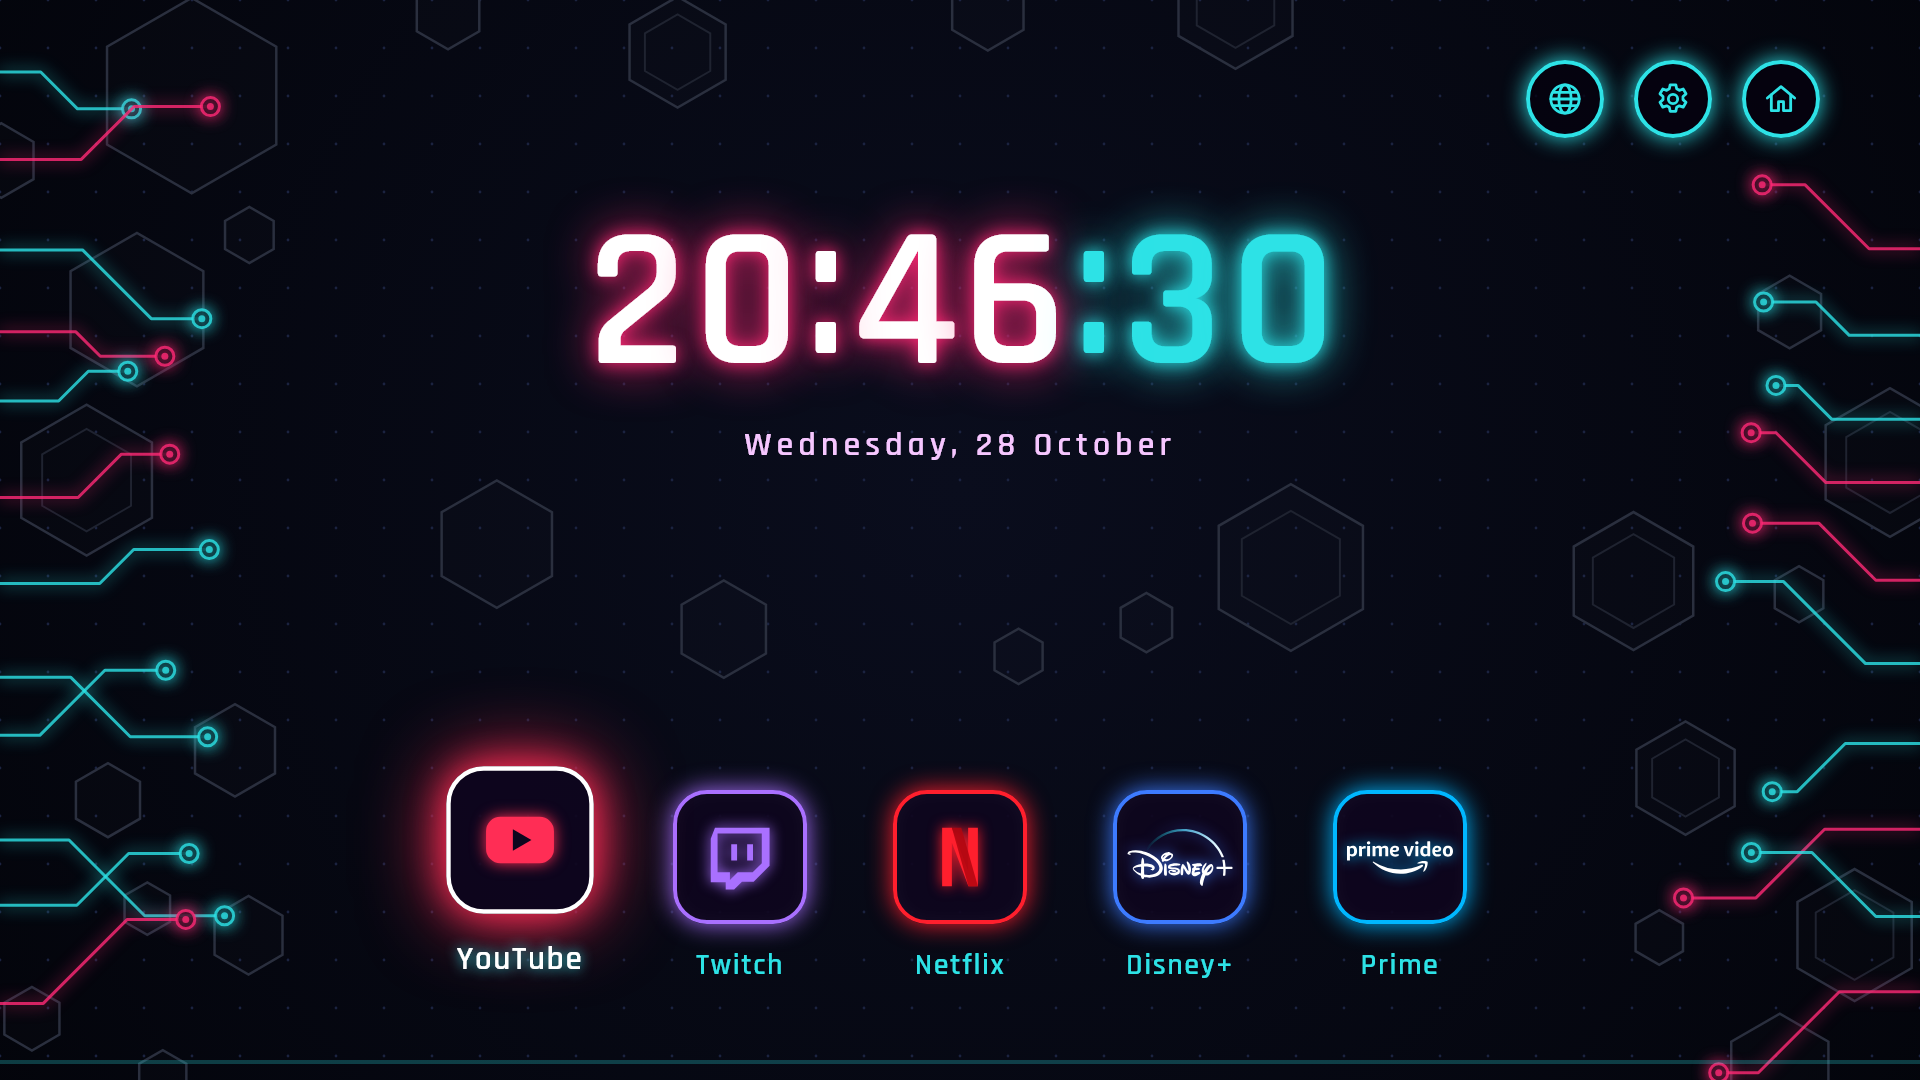
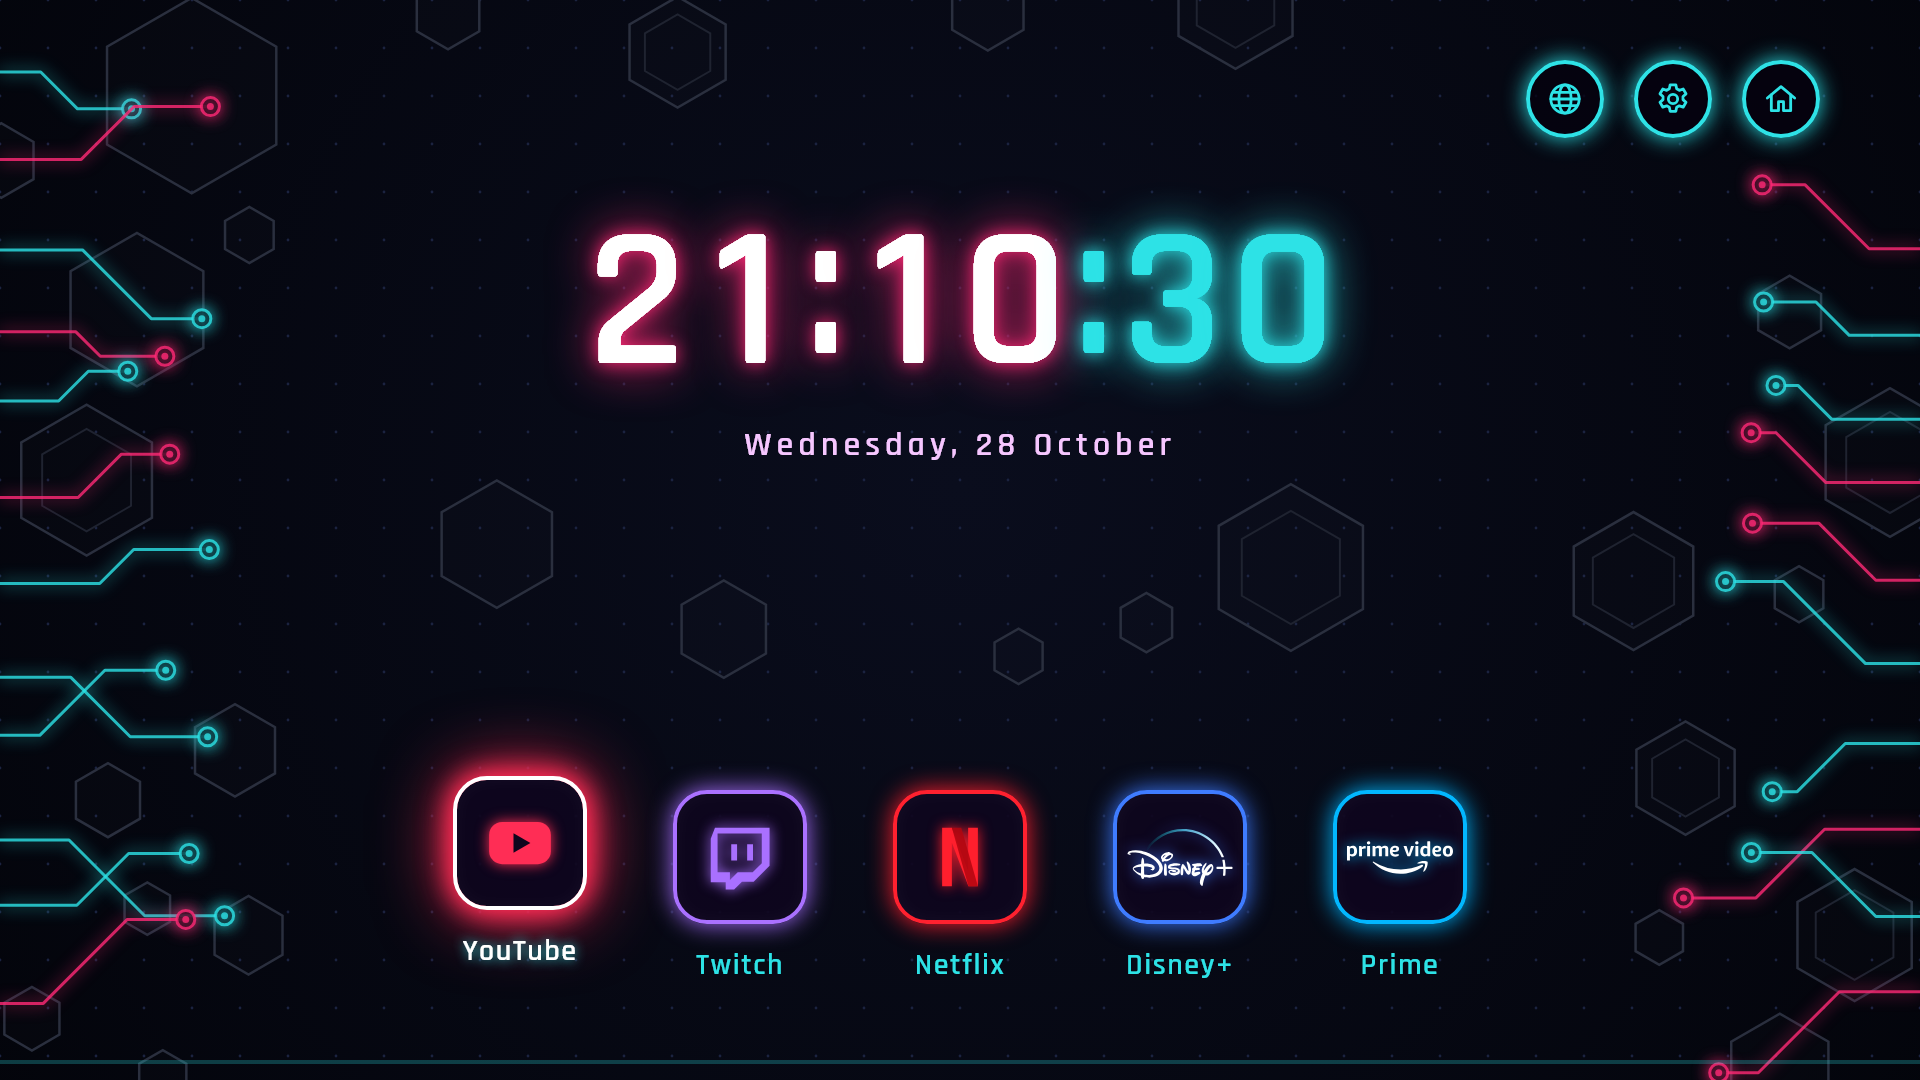
Document v0.5.1 performance work
Changelog entry, before/after measurements and what each effect costs on this TV in findings, and a refreshed README screenshot without the tile scaling.

Changed region(s): [[0.3438, 0.1833, 0.5625, 0.3667], [0.2188, 0.6722, 0.3438, 0.9167]]

diff --git a/docs/findings.md b/docs/findings.md
@@ -37,6 +37,23 @@ IDs differ between model years — run `scripts/list-apps.ps1` on another TV.
 - **No DevTools screenshots:** the TV's web engine answers `Runtime` and `Page.enable`, but never answers `Page.captureScreenshot` (verified, with and without `fromSurface`). Screenshots are rendered on the PC instead (`scripts/render-screenshot.ps1`).
 - **App list is slow:** `tizen.application.getAppsInfo()` returns 368 apps in ~4.3 s on this TV, so tiles use hard-coded IDs and the list is only fetched by `list-apps.ps1`.
 
+## Performance on this TV
+
+Measured in the app with `requestAnimationFrame` timing while simulating arrow presses (v0.5.0 → v0.5.1):
+
+| | Before | After |
+|---|---|---|
+| Key press → screen updated | 200–290 ms | 25–36 ms |
+| Frames while navigating | avg 72 ms (~14 fps) | avg 15.5 ms (60 fps) |
+| Clock tick, idle | ~115 ms freeze every second | none (max frame 19 ms) |
+
+Switching effects off one at a time showed:
+
+- **Scaling the selected tile was the main cost.** On this engine a `scale()` makes the layer redraw everything in it, blurred glows included, even with `will-change: transform`. A pure 2D `translate()` is cheap.
+- Blurred `text-shadow` glow on a 200 px clock costs ~100 ms per redraw, even for a single digit on its own layer. Pre-rendering the glyphs into canvas sprites removes the cost.
+- Changing `box-shadow` glows on focus is expensive. Fading a pre-drawn overlay's `opacity` is not.
+- `filter: drop-shadow` on the logos and the base tile glow cost little once nothing around them changes.
+
 ## Signing
 
 - A plain **Tizen** author certificate (default Tizen distributor) installs fine on Tizen 6. Tizen 7+ TVs require a **Samsung** certificate (Samsung account) — per TizenBrew/Apps2Samsung source code.

diff --git a/CHANGELOG.md b/CHANGELOG.md
@@ -1,5 +1,16 @@
 # Changelog
 
+## 0.5.1 — 2026-10-28
+
+Faster navigation, measured on the TV: a key press now reaches the screen in **25–36 ms** at a steady 60 fps (was 200–290 ms at ~14 fps), and the clock no longer freezes the screen for ~115 ms every second.
+
+- The selected tile lifts but no longer grows: scaling made this TV redraw the whole glowing tile on every move. Shortcuts no longer grow either.
+- Focus ring and glow are drawn once per tile and only faded in and out.
+- Tiles and labels sit on their own layers.
+- The clock's glowing digits are drawn once into sprites at start-up; each tick only copies them onto a canvas.
+- The focus position is saved when you stop moving, not on every key press.
+- Animations shortened from 0.18 s to 0.12 s.
+
 ## 0.5.0 — 2026-10-28
 
 - Cyberpunk redesign for a dark room (the white background was too bright on the TV):
